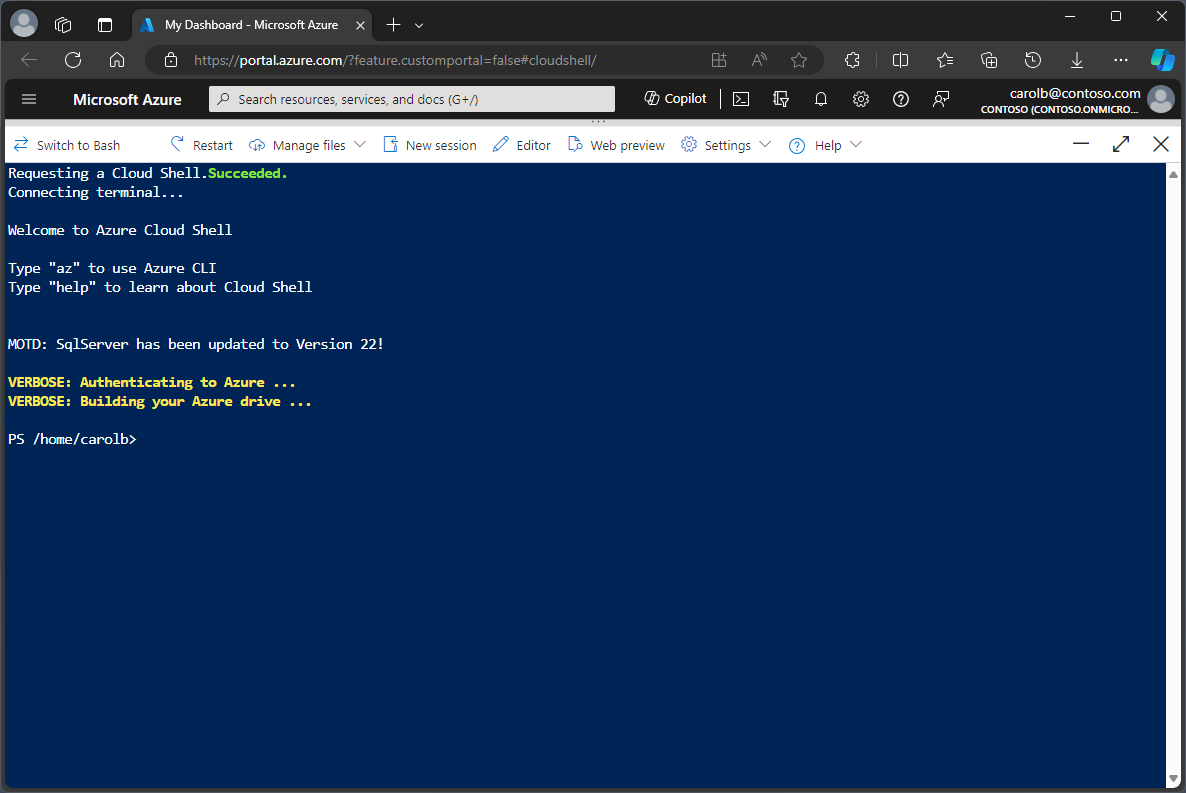
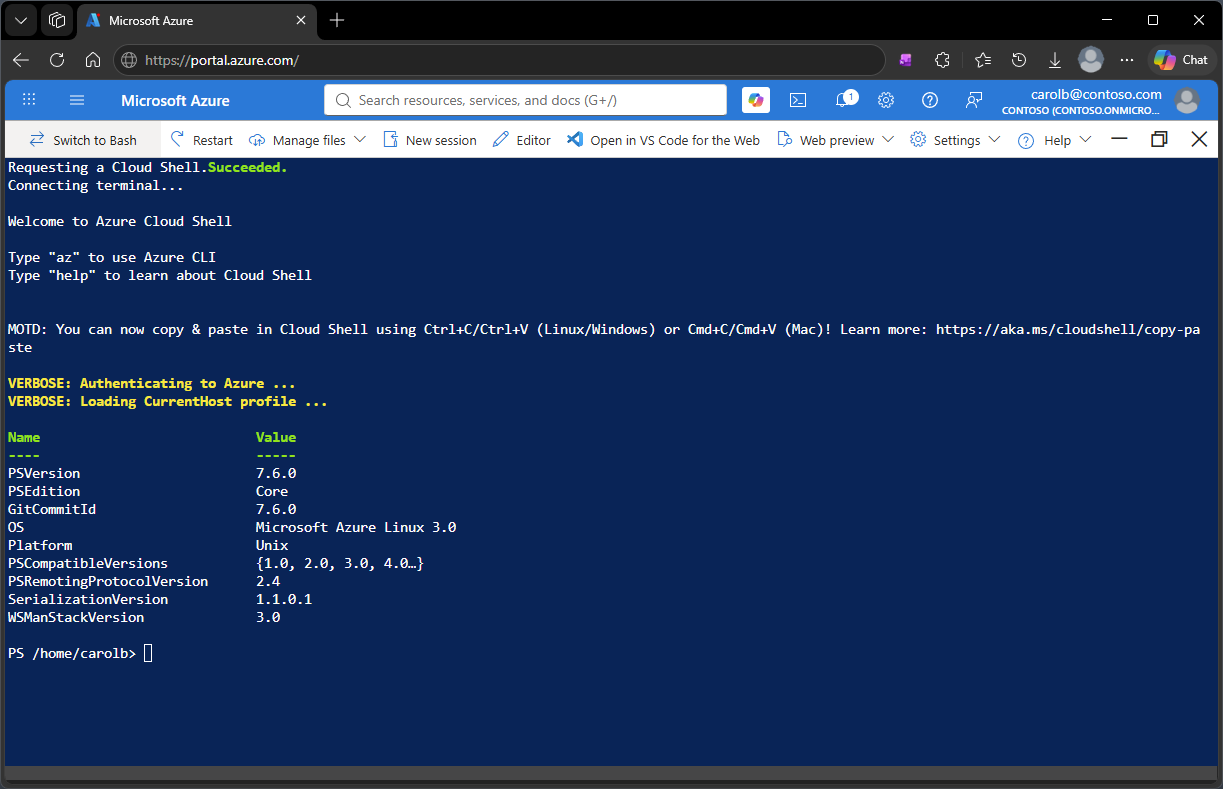
Update UI docs for VS Code in Web release

diff --git a/articles/cloud-shell/use-the-shell-window-new.md b/articles/cloud-shell/use-the-shell-window-new.md
@@ -1,6 +1,6 @@
 ---
 description: Overview of how to use Azure Cloud Shell in the new user interface.
-ms.date: 04/01/2026
+ms.date: 05/11/2026
 ms.topic: how-to
 tags: azure-resource-manager
 title: How to use Azure Cloud Shell in the new user interface
@@ -83,11 +83,19 @@ another session connected to the existing container.
 
 ## Cloud Shell editor button
 
-The Cloud Shell editor is a browser-based text editor that is optimized for managing and editing.
-When you select the **<kbd>&#x1F589; Editor</kbd>** button, Cloud Shell opens the editor in the top
-half of the Cloud Shell window.
+The Cloud Shell editor is a browser-based text editor that's optimized for managing and editing
+files in your Cloud Shell environment. When you select the **<kbd>&#x1F589; Editor</kbd>** button,
+Cloud Shell opens the editor in the top half of the Cloud Shell window.
 
-For more information, see [Using the Azure Cloud Shell editor][11].
+For more information, see [Using the Azure Cloud Shell editor][12].
+
+[![Screenshot of the Editor button.][12i]][12x]
+
+If you select the **Open in VS Code for the Web** button, Cloud Shell opens a new browser tab with a
+Visual Studio Code environment connected to Azure. This environment gives you access to the full VS
+Code interface, including the file explorer, editor, and integrated terminal, while still using the
+same Cloud Shell container and authentication. For more information about using VS Code for the Web
+with Azure, see [VS Code for the Web - Azure][14].
 
 ## Web preview menu
 
@@ -205,5 +213,8 @@ The Cloud Shell terminal has the following keyboard shortcuts available when the
 [10x]: media/use-the-shell-window-new/web-preview.png#lightbox
 [11i]: media/use-the-shell-window-new/help-menu.png
 [11x]: media/use-the-shell-window-new/help-menu.png#lightbox
+[12i]: media/use-the-shell-window-new/editor.png
+[12x]: media/use-the-shell-window-new/editor.png#lightbox
 [12]: using-cloud-shell-editor.md
 [13]: using-the-shell-window.md
+[14]: https://code.visualstudio.com/docs/azure/vscodeforweb

diff --git a/articles/cloud-shell/release-notes.md b/articles/cloud-shell/release-notes.md
@@ -1,7 +1,7 @@
 ---
 title: Azure Cloud Shell release notes
 description: This article lists the new features and changes released in Azure Cloud Shell.
-ms.date: 04/30/2026
+ms.date: 05/11/2026
 ms.topic: release-notes
 ---
 
@@ -26,6 +26,19 @@ You can install any tool you need in your Cloud Shell session as long as it does
 access. For installation instructions, consult the documentation for the package you require.
 
 ## May 2026
+
+Feature update
+
+There's a new button to the Cloud Shell menu bar that opens a new browser tab and transfers your
+session to a Visual Studio Code (VS Code) environment in the browser. This feature gives you access
+to a more feature rich code editor when the built-in Cloud Shell editor doesn't meet your needs.
+
+In this environment, you have the full VS Code interface, including the file explorer, editor, and
+integrated terminal. The terminal in VS Code is now your Cloud Shell terminal with the same
+built-in authentication and packages that cloud shell provides. VS Code has access to all files
+stored in your Cloud Shell session and any mounted storage account.
+
+For more information, see [How to use Azure Cloud Shell in the new user interface][18].
 
 Tool updates
 
